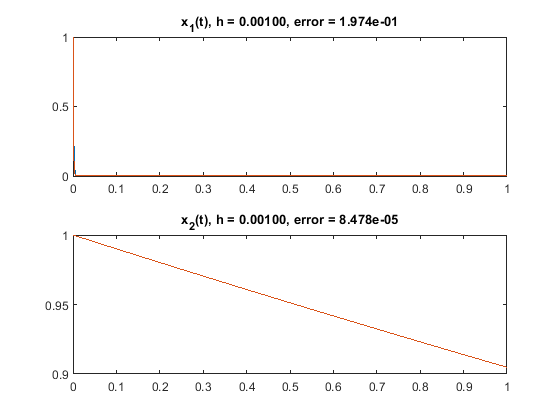
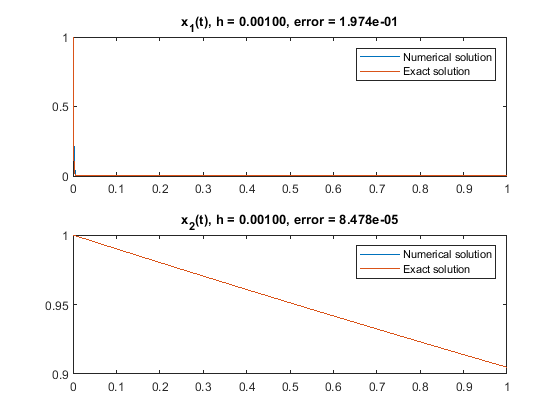
Add legend to charts

Changed region(s): [[0.6982, 0.5881, 0.8804, 0.65], [0.6982, 0.1238, 0.8804, 0.1857]]

diff --git a/list_4/backward_euler_4.m b/list_4/backward_euler_4.m
@@ -43,6 +43,8 @@ function plot_solutions(t, x, x_0, h)
     hold on
     plot(t, y(1, :))
     hold off
+    legend({'Numerical solution', 'Exact solution'}, ...
+    'Location', 'northeast')
     error_1 = (norm(y1 - y(1, :)));
     title(sprintf('x_1(t), h = %0.5f, error = %0.3e', h, error_1))
 
@@ -52,6 +54,8 @@ function plot_solutions(t, x, x_0, h)
     hold on
     plot(t, y(2, :))
     hold off
+    legend({'Numerical solution', 'Exact solution'}, ...
+    'Location', 'northeast')
     error_2 = (norm(y2 - y(2, :)));
     title(sprintf('x_2(t), h = %0.5f, error = %0.3e', h, error_2))
 end

diff --git a/list_4/forward_euler_4.m b/list_4/forward_euler_4.m
@@ -36,6 +36,8 @@ function plot_solutions(t, x, x_0, h)
     hold on
     plot(t, y(1, :))
     hold off
+    legend({'Numerical solution', 'Exact solution'}, ...
+    'Location', 'northeast')
     error_1 = (norm(y1 - y(1, :)));
     title(sprintf('x_1(t), h = %0.5f, error = %0.3e', h, error_1))
 
@@ -45,6 +47,8 @@ function plot_solutions(t, x, x_0, h)
     hold on
     plot(t, y(2, :))
     hold off
+    legend({'Numerical solution', 'Exact solution'}, ...
+    'Location', 'northeast')
     error_2 = (norm(y2 - y(2, :)));
     title(sprintf('x_2(t), h = %0.5f, error = %0.3e', h, error_2))
 end
